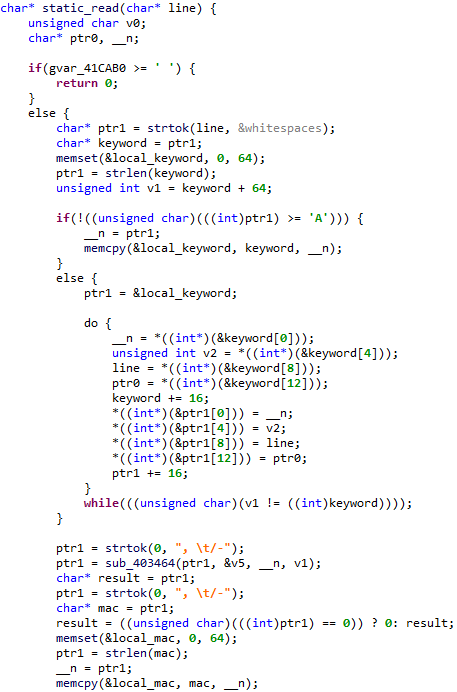
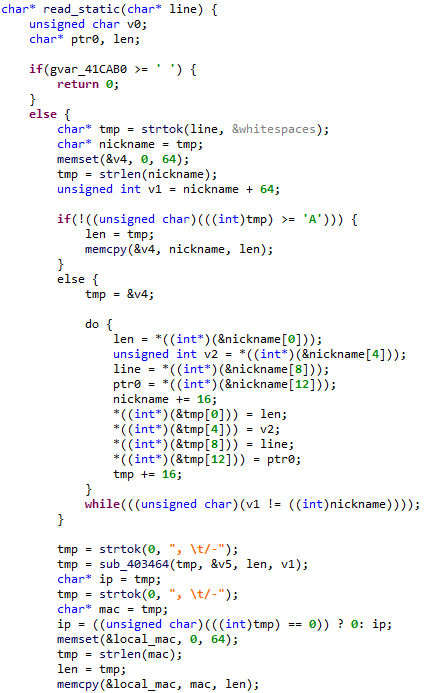
Update images and improve description

diff --git a/CVE-2019-6258/README.md b/CVE-2019-6258/README.md
@@ -67,11 +67,11 @@ First, `read_config` function of `udhcpd` program set keyword handler to parse k
 
 ![](read_config.png)
 
-From the D-Link (AthSDK/apps/udhcp/files.c) source code, I could see keyword handler array as likes below, however I could not found `static` keyword.
+From the D-Link (AthSDK/apps/udhcp/files.c) source code, I could see keyword handler array as likes below, however I could not found `"static"` keyword.
 
 ![](keywords.png)
 
-Therefore, I found a function which parses `static` keyword line from `udhcpd` program in the firmware, and I named it `read_static`.
+Therefore, I found a function which parses `"static"` keyword line from `udhcpd` program in the firmware, and I named it `read_static`.
 
 ![](keyword_static.png)
 
@@ -79,8 +79,10 @@ Before calling the handler function, in the `read_config` function, it reads 256
 
 ![](udhcpd_read_config.png)
 
-Finally, in the `read_static` function, it parses `static` keyword line and stores mac string into local buffer which is 100 bytes size.
+And then, the `read_config` function runs `keywords[i].handler(line, keywords[i].var)` code.
+
+`read_static` function parses `line` parameter string which is after from `"static"` keyword in the line and stores mac string into local mac buffer which is 100 bytes size.
 
 ![](read_static.png)
 
-When returning from the `read_static` function, the program will be crash due to the overflowed buffer.
+Finally, when returning from the `read_static` function, the program will be crash due to the overflowed buffer.
